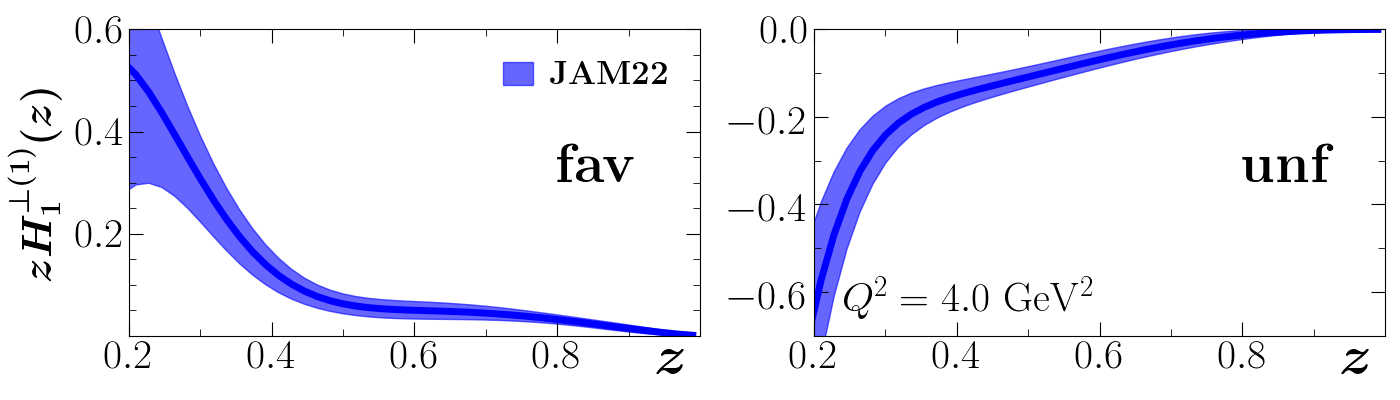
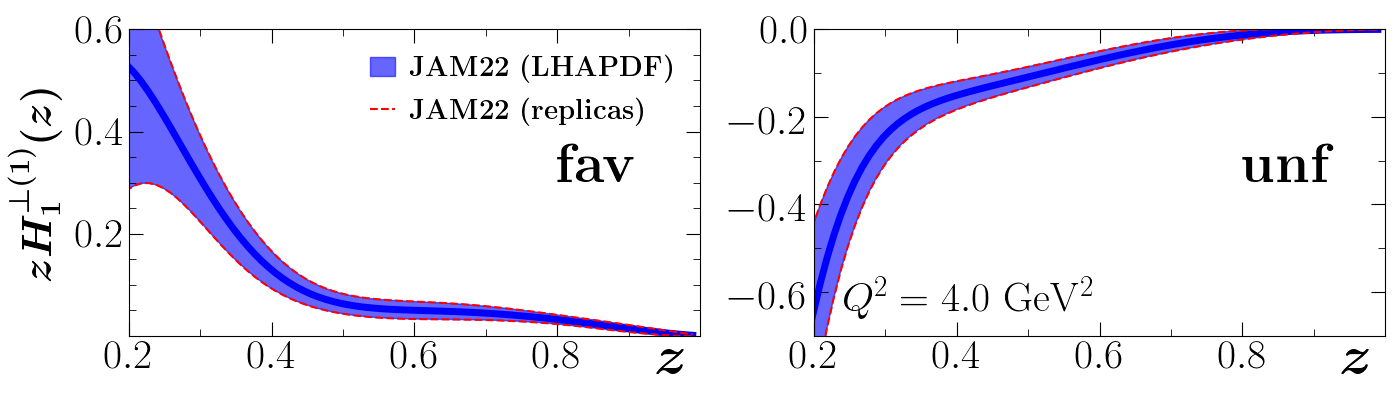
update

diff --git a/plot.py b/plot.py
@@ -15,6 +15,16 @@ matplotlib.rc('text',usetex=True)
 import pylab  as py
 from matplotlib.ticker import MultipleLocator
 
+from tolhapdf import PARMAN
+from tools.config import conf, load_config
+from tools.tools  import load, save, lprint, checkdir
+
+from tools.core import CORE
+from qpdlib.aux import AUX
+
+core = CORE()
+aux  = AUX()
+
 #--index conventions:
 #--index conventions:
 #--1: down
@@ -26,11 +36,83 @@ from matplotlib.ticker import MultipleLocator
 #--21: gluon
 #--negative values for antiquarks
 
-X1=10**np.linspace(-4,-1)
-X2=np.linspace(0.101,0.99)
-X=np.append(X1,X2)
+#--setup kinematics
+X=np.linspace(0.01,0.99,100)
+
+#--generate distributions directly from replicas
+def gen_xf(wdir,dist,Q2=4.0):
+
+    load_config('%s/input.py'%wdir)
+    istep=core.get_istep()
+    core.mod_conf(istep) #--set conf as specified in istep
+
+    #--LO analysis
+    conf['order'] = 'LO'
+    conf['aux']   = aux
+
+    #--load jar file, or generate if it does not exist
+    jarname = '%s/data/jar-%d.dat'%(wdir,istep)
+    try:
+        jar=load(jarname)
+    except:
+        core.gen_jar_file(wdir)
+        jar=load(jarname)
+    replicas=jar['replicas']
+
+  
+    parman = PARMAN() 
+ 
+    #--check order consistency
+    order=jar['order']
+    parman.order = order
+
+
+    pdf=conf[dist]
+    #--compute XF for all replicas
+    XF={}
+    cnt=0
+    replicas=core.get_replicas(wdir)
+    for replica in replicas:
+        cnt+=1
+        lprint('%d/%d'%(cnt,len(replicas)))
+
+        parman.set_new_params(replica['params'][istep],initial=False)
+        core.set_passive_params(istep,replica)
+
+        for flav in ['u', 'd']:
+            if flav not in XF:  XF[flav]=[]
+
+            if flav=='u':
+                func=lambda x: pdf.get_C(x,Q2)[1]
+            elif flav=='ub':
+                func=lambda x: pdf.get_C(x,Q2)[2]
+            elif flav=='d':
+                func=lambda x:pdf.get_C(x,Q2)[3]
+            elif flav=='db':
+                func=lambda x: pdf.get_C(x,Q2)[4]
+            elif flav=='s':
+                func=lambda x: pdf.get_C(x,Q2)[5]
+            elif flav=='sb':
+                func=lambda x: pdf.get_C(x,Q2)[6]
+
+            XF[flav].append([x*func(x) for x in X])
+
+    print()
+    checkdir('%s/data'%wdir)
+    filename='%s/data/%s-Q2=%3.5f.dat'%(wdir,dist,Q2)
+    save({'X':X,'Q2':Q2,'XF':XF},filename)
+
 
 def plot_transversity(wdir,file_name,Q2,mode=0):
+
+    dist = 'transversity'
+    #--load data if it exists, else generate it
+    filename='%s/data/%s-Q2=%3.5f.dat'%(wdir,dist,Q2)
+    try:
+        replica_data = load(filename)
+    except:
+        gen_xf(wdir,dist,Q2)
+        replica_data = load(filename)
 
     nrows,ncols=1,2
     fig = py.figure(figsize=(ncols*7,nrows*4))
@@ -59,6 +141,7 @@ def plot_transversity(wdir,file_name,Q2,mode=0):
         if   flav=='u': ax = ax11
         elif flav=='d': ax = ax12
 
+        #--plot data from LHAPDF
         mean = np.mean(data[flav],axis=0)
         std  = np.std (data[flav],axis=0)
 
@@ -71,6 +154,14 @@ def plot_transversity(wdir,file_name,Q2,mode=0):
             ax.plot(X,mean,color='blue',alpha=1.0,lw=5)
             JAM22 = ax.fill_between(X,mean-std,mean+std,color='blue',alpha=0.6)
 
+        #--plot data directly from replicas
+        mean = np.mean(replica_data['XF'][flav],axis=0)
+        std  = np.std (replica_data['XF'][flav],axis=0)
+
+        #--plot average and standard deviation
+        if mode==1:
+            replica ,= ax.plot(X,mean+std,color='red',ls='--',alpha=1.0)
+            replica ,= ax.plot(X,mean-std,color='red',ls='--',alpha=1.0)
 
     for ax in [ax11,ax12]:
           ax.set_xlim(0,1)
@@ -110,10 +201,12 @@ def plot_transversity(wdir,file_name,Q2,mode=0):
 
     handles, labels = [],[]
     handles.append(JAM22)
+    if mode==1: handles.append(replica)
 
-    labels.append(r'\textrm{\textbf{JAM22}}')
+    labels.append(r'\textrm{\textbf{JAM22 (LHAPDF)}}')
+    if mode==1: labels.append(r'\textrm{\textbf{JAM22 (replicas)}}')
 
-    legend1 = ax11.legend(handles,labels,loc='upper right',fontsize=24,frameon=0,handletextpad=0.5,handlelength=0.9,ncol=1,columnspacing=1.5)
+    legend1 = ax11.legend(handles,labels,loc='upper right',fontsize=20,frameon=0,handletextpad=0.5,handlelength=0.9,ncol=1,columnspacing=1.5)
 
 
     py.tight_layout()
@@ -128,6 +221,15 @@ def plot_transversity(wdir,file_name,Q2,mode=0):
     print ('Saving figure to %s'%filename)
 
 def plot_collinspi(wdir,file_name,Q2,mode=0):
+
+    dist = 'collinspi'
+    #--load data if it exists, else generate it
+    filename='%s/data/%s-Q2=%3.5f.dat'%(wdir,dist,Q2)
+    try:
+        replica_data = load(filename)
+    except:
+        gen_xf(wdir,dist,Q2)
+        replica_data = load(filename)
 
     nrows,ncols=1,2
     fig = py.figure(figsize=(ncols*7,nrows*4))
@@ -168,6 +270,14 @@ def plot_collinspi(wdir,file_name,Q2,mode=0):
             ax.plot(X,mean,color='blue',alpha=1.0,lw=5)
             JAM22 = ax.fill_between(X,mean-std,mean+std,color='blue',alpha=0.6)
 
+        #--plot data directly from replicas
+        mean = np.mean(replica_data['XF'][flav],axis=0)
+        std  = np.std (replica_data['XF'][flav],axis=0)
+
+        #--plot average and standard deviation
+        if mode==1:
+            replica ,= ax.plot(X,mean+std,color='red',ls='--',alpha=1.0)
+            replica ,= ax.plot(X,mean-std,color='red',ls='--',alpha=1.0)
 
     for ax in [ax11,ax12]:
           ax.set_xlim(0.2,1)
@@ -207,10 +317,12 @@ def plot_collinspi(wdir,file_name,Q2,mode=0):
 
     handles, labels = [],[]
     handles.append(JAM22)
+    if mode==1: handles.append(replica)
 
-    labels.append(r'\textrm{\textbf{JAM22}}')
+    labels.append(r'\textrm{\textbf{JAM22 (LHAPDF)}}')
+    if mode==1: labels.append(r'\textrm{\textbf{JAM22 (replicas)}}')
 
-    legend1 = ax11.legend(handles,labels,loc='upper right',fontsize=24,frameon=0,handletextpad=0.5,handlelength=0.9,ncol=1,columnspacing=1.5)
+    legend1 = ax11.legend(handles,labels,loc='upper right',fontsize=20,frameon=0,handletextpad=0.5,handlelength=0.9,ncol=1,columnspacing=1.5)
 
     py.tight_layout()
     py.subplots_adjust(hspace = 0, wspace = 0.20)

diff --git a/tolhapdf.py b/tolhapdf.py
@@ -293,7 +293,6 @@ class QCF:
         checkdir(wdir + '/data/')
         checkdir(wdir + '/data/%s/' % file_name)
 
-        print(dist)
         if dist=='transversity': self.widths_uv = []
         if dist=='collinspi':    self.widths_fav,self.widths_unf = [],[]
         for i in range(len(order)):
